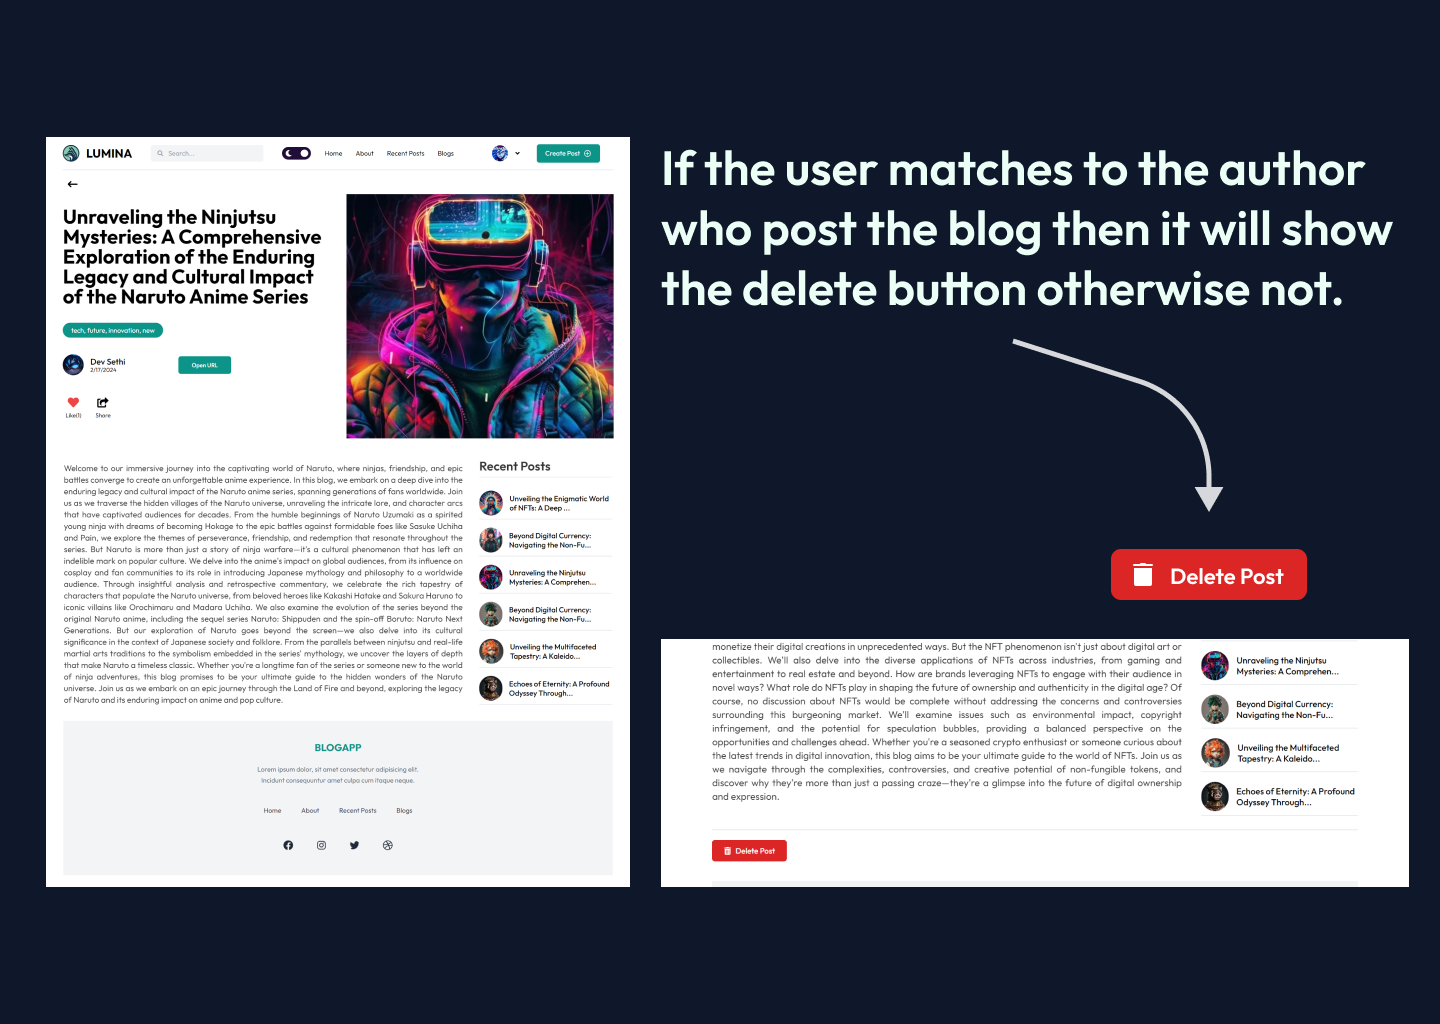
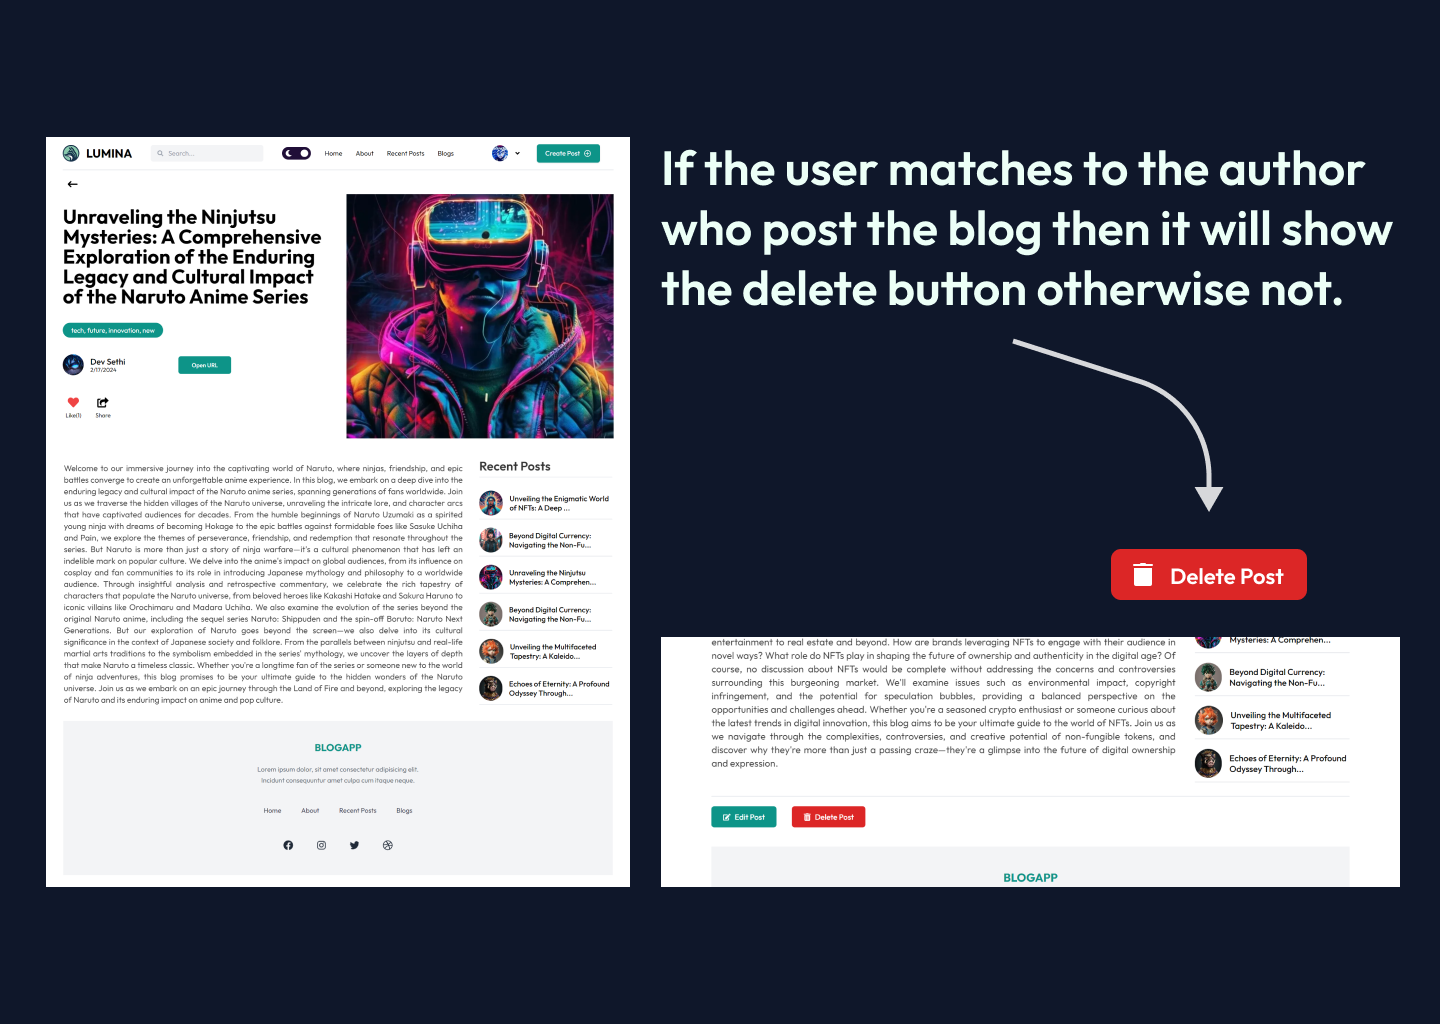
third commit

Changed region(s): [[0.4688, 0.625, 0.9375, 0.8438], [0.9688, 0.625, 1.0, 0.875], [0.6875, 0.8438, 0.7188, 0.875]]

diff --git a/src/app/edit-post/[postId]/page.jsx b/src/app/edit-post/[postId]/page.jsx
@@ -4,12 +4,12 @@ import { useRouter } from "next/navigation";
 import { useEffect, useState } from "react";
 import { useSession } from "next-auth/react";
 import { doc, getDoc, getFirestore, setDoc } from "firebase/firestore";
-import UploadImage from "@/app/components/uploadImage/UploadImage";
 import UserPinBuilderSkeleton from "@/app/components/loadingSkeletons/UserPinBuilderSkeleton";
 import UserTag from "@/app/components/userTag/UserTag";
 import Modal from "@/app/components/modal/Modal";
 import { app } from "../../../../firebaseConfig";
 import Image from "next/image";
+import { TbCloudUpload } from "react-icons/tb";
 
 const EditPostPage = ({ params }) => {
   console.log(params);
@@ -34,7 +34,7 @@ const EditPostPage = ({ params }) => {
   const [desc, setDesc] = useState();
   const [link, setLink] = useState();
   const [successMsg, setSuccessMsg] = useState(false);
-  const [selectedFile, setSelectedFile] = useState();
+  const [selectedFile, setSelectedFile] = useState(false);
 
   useEffect(() => {
     setPostId(params.postId);
@@ -75,16 +75,63 @@ const EditPostPage = ({ params }) => {
     setDesc(postDetail.desc);
   }, []);
 
-  const updateFile = () => {};
+  const updatePost = async () => {
+    try {
+      if (file) {
+        // Upload file to Firebase Storage
+        const storageRef = ref(storage, "posts/" + file.name);
+        const snapshot = await uploadBytes(storageRef, file);
 
+        // Get download URL
+        const downloadURL = await getDownloadURL(snapshot.ref);
+
+        // Update Firestore document with download URL
+        const postData = {
+          title: title,
+          desc: desc,
+          link: link,
+          image: downloadURL, // Update image field with download URL
+          category: tags.join(", "),
+          // Add other fields as needed
+        };
+
+        await setDoc(doc(db, "blog-post", postId), postData, { merge: true });
+        setLoading(false);
+        router.push("/" + session.user?.email);
+        setTimeout(() => {
+          setSuccessMsg(true);
+        }, 2000); // Adjust as needed
+      } else {
+        // If no file is selected, update Firestore document without changing the image field
+        const postData = {
+          title: title,
+          desc: desc,
+          link: link,
+          category: tags.join(", "),
+          // Add other fields as needed
+        };
+
+        await setDoc(doc(db, "blog-post", postId), postData, { merge: true });
+        setLoading(false);
+        router.push("/" + session.user?.email);
+        setTimeout(() => {
+          setSuccessMsg(true);
+        }, 2000); // Adjust as needed
+      }
+    } catch (error) {
+      console.error("Error updating post: ", error);
+      // Handle error
+    }
+  };
   const handleSave = () => {
     if (!title || !desc || !file || !link || tags.length === 0) {
       toggleModal();
       return;
     }
+
     setCategory(tags.join(", "));
     setLoading(true);
-    updateFile();
+    updatePost();
     toggleSuccess();
   };
 
@@ -97,6 +144,7 @@ const EditPostPage = ({ params }) => {
     setTags((prevTags) => [...prevTags, category.trim()]);
     setCategory("");
   };
+
   const toggleModal = () => {
     setFieldsError(!fieldsError);
   };
@@ -112,38 +160,16 @@ const EditPostPage = ({ params }) => {
             for="dropzone-file"
             className="flex flex-col items-center justify-center w-full h-[60vh] lg:h-[95vh] border-2 bg-[#f7fffe] hover:bg-[#ebfffd] transition-all dark:border-[#2c415f] dark:bg-[#1e2a41] dark:hover:bg-[#26354f] border-dashed rounded-lg cursor-pointer"
           >
-            {selectedFile ? (
-              <div className="flex flex-col items-center justify-center pt-5 pb-6">
-                <svg
-                  className="w-[80px] h-[80px] text-gray-500 dark:text-gray-400"
-                  aria-hidden="true"
-                  xmlns="http://www.w3.org/2000/svg"
-                  fill="none"
-                  viewBox="0 0 20 16"
-                >
-                  <path
-                    stroke="currentColor"
-                    stroke-linecap="round"
-                    stroke-linejoin="round"
-                    stroke-width="2"
-                    d="M13 13h3a3 3 0 0 0 0-6h-.025A5.56 5.56 0 0 0 16 6.5 5.5 5.5 0 0 0 5.207 5.021C5.137 5.017 5.071 5 5 5a4 4 0 0 0 0 8h2.167M10 15V6m0 0L8 8m2-2 2 2"
-                  />
-                </svg>
-                <p className="mb-2 text-xl text-gray-500 mt-4 dark:text-gray-400">
-                  <span className="font-semibold">Click to upload</span> or drag
-                  and drop
-                </p>
-                <p className="text-xs text-gray-500 dark:text-gray-400">
-                  SVG, PNG, JPG or GIF (MAX. 800x400px)
-                </p>
-              </div>
-            ) : null}
             <Image
-              src={postDetail?.image}
+              src={
+                selectedFile
+                  ? window.URL.createObjectURL(selectedFile)
+                  : postDetail?.image
+              }
               width={500}
               height={800}
               alt="selected-image"
-              className="object-contain p-2 w-full h-[90%]  "
+              className="object-contain p-2 w-full h-[90%]"
             />
             <input
               onChange={(e) => {
@@ -261,14 +287,14 @@ const EditPostPage = ({ params }) => {
       {successMsg && (
         <Modal
           toggleModal={toggleModal}
-          text="Blog Published Successfully"
+          text="Blog Updated Successfully"
           theme="success"
         />
       )}
       {fieldsError && (
         <Modal
           toggleModal={toggleModal}
-          text="Please fill all the fields before publishing!"
+          text="An error might possible for because you didn't save categories tags"
           theme="error"
         />
       )}

diff --git a/src/app/recent-posts/page.jsx b/src/app/recent-posts/page.jsx
@@ -26,6 +26,9 @@ const RecentPostPage = () => {
     return text;
   };
 
+  // Reverse the order of listOfPins to display newest posts at the top
+  const reversedListOfPins = [...listOfPins].reverse();
+
   return (
     <div className="mt-5">
       <h1 className="text-center text-3xl text-gray-700 dark:text-gray-200 border-b-[3px] border-teal-600 pb-2 my-8 font-semibold">
@@ -35,20 +38,28 @@ const RecentPostPage = () => {
         <table className="w-full">
           <thead>
             <tr className="border-2 border-gray-300 dark:border-[#253954]">
-              <th className="border-2 w-20 py-2 px-3 border-gray-300 dark:border-[#253954] dark:bg-[#253954] bg-gray-200 ">S.No.</th>
+              <th className="border-2 w-20 py-2 px-3 border-gray-300 dark:border-[#253954] dark:bg-[#253954] bg-gray-200 ">
+                S.No.
+              </th>
               <th className="border-2 w-[150px] py-2 px-3 border-gray-300 dark:border-[#253954] dark:bg-[#253954] bg-gray-200 ">
                 Blog Image
               </th>
-              <th className="border-2 w-[400px] py-2 px-3 border-gray-300 dark:border-[#253954] dark:bg-[#253954] bg-gray-200 ">Title</th>
-              <th className="border-2 w-[410px] py-2 px-3 border-gray-300 dark:border-[#253954] dark:bg-[#253954] bg-gray-200 ">Desc</th>
-              <th className="border-2 py-2 px-3 border-gray-300 dark:border-[#253954] dark:bg-[#253954] bg-gray-200 ">Post By</th>
+              <th className="border-2 w-[400px] py-2 px-3 border-gray-300 dark:border-[#253954] dark:bg-[#253954] bg-gray-200 ">
+                Title
+              </th>
+              <th className="border-2 w-[410px] py-2 px-3 border-gray-300 dark:border-[#253954] dark:bg-[#253954] bg-gray-200 ">
+                Desc
+              </th>
+              <th className="border-2 py-2 px-3 border-gray-300 dark:border-[#253954] dark:bg-[#253954] bg-gray-200 ">
+                Post By
+              </th>
               <th className="border-2 py-2 px-3 w-[150px] border-gray-300 dark:border-[#253954] dark:bg-[#253954] bg-gray-200 ">
                 Created Date
               </th>
             </tr>
           </thead>
           <tbody>
-            {listOfPins.map((pin, index) => (
+            {reversedListOfPins.map((pin, index) => (
               <tr
                 key={index}
                 className="cursor-pointer my-3"

diff --git a/src/app/components/searchBar/SearchBar.jsx b/src/app/components/searchBar/SearchBar.jsx
@@ -1,3 +1,4 @@
+"use client";
 import { useState, useEffect } from "react";
 import { FaSearch } from "react-icons/fa";
 import { motion } from "framer-motion";
@@ -31,7 +32,7 @@ const SearchData = ({ searchQuery }) => {
 
   const showPinTitle = (title) => {
     if (screenWidth <= 680) {
-      return truncateDescription(title, 35);
+      return truncateDescription(title, 45);
     } else {
       return title;
     }
@@ -44,23 +45,22 @@ const SearchData = ({ searchQuery }) => {
           No matching blog found.
         </div>
       ) : (
-        <div className="flex flex-col gap-5 cursor-pointer">
+        <div className="flex py-3 flex-col gap-5 cursor-pointer">
           {filteredPins.map((pin, index) => (
             <div
               onClick={() => router.push(`/post/${pin.id}`)}
               key={index}
-              className="flex border-b-2 py-2 -mt-2 dark:border-[#27385c] items-center gap-4"
+              className="flex border-b-[2px] border-gray-200 py-2 -mt-5 dark:border-[#27385c] items-center gap-6"
             >
-              <div className="relative w-[60px] h-[55px] rounded-full">
+              <div className="relative lg:w-[90px] w-[100px] box-shadow: rgba(13, 38, 76, 0.19) 0px 9px 20px; lg:h-[85px] h-[65px] rounded-full">
                 <Image
                   src={pin?.image}
                   fill
                   alt={pin?.title}
-                  className="rounded-full"
                   objectFit="cover"
                 />
               </div>
-              <h4 className="text-normal lg:text-xl leading-tight font-medium">
+              <h4 className="text-normal lg:text-xl text-gray-800 leading-tight font-medium">
                 {showPinTitle(pin.title)}
               </h4>
             </div>

diff --git a/src/app/components/uploadImage/UploadImage.jsx b/src/app/components/uploadImage/UploadImage.jsx
@@ -1,6 +1,7 @@
 "use client";
 import { useState } from "react";
 import Image from "next/image";
+import { TbCloudUpload } from "react-icons/tb";
 
 const UploadImage = ({ setFile }) => {
   const [selectedFile, setSelectedFile] = useState();
@@ -13,21 +14,7 @@ const UploadImage = ({ setFile }) => {
         >
           {!selectedFile ? (
             <div className="flex flex-col items-center justify-center pt-5 pb-6">
-              <svg
-                className="w-[80px] h-[80px] text-gray-500 dark:text-gray-400"
-                aria-hidden="true"
-                xmlns="http://www.w3.org/2000/svg"
-                fill="none"
-                viewBox="0 0 20 16"
-              >
-                <path
-                  stroke="currentColor"
-                  stroke-linecap="round"
-                  stroke-linejoin="round"
-                  stroke-width="2"
-                  d="M13 13h3a3 3 0 0 0 0-6h-.025A5.56 5.56 0 0 0 16 6.5 5.5 5.5 0 0 0 5.207 5.021C5.137 5.017 5.071 5 5 5a4 4 0 0 0 0 8h2.167M10 15V6m0 0L8 8m2-2 2 2"
-                />
-              </svg>
+              <TbCloudUpload className="text-8xl text-gray-600" />
               <p className="mb-2 text-xl text-gray-500 mt-4 dark:text-gray-400">
                 <span className="font-semibold">Click to upload</span> or drag
                 and drop

diff --git a/src/app/components/footer/Footer.jsx b/src/app/components/footer/Footer.jsx
@@ -19,7 +19,7 @@ const Footer = () => {
             <li>
               <Link
                 className="text-gray-700 transition hover:text-gray-700/75 dark:text-white dark:hover:text-white/75"
-                href="/blogs"
+                href="/"
               >
                 Home
               </Link>
@@ -28,7 +28,7 @@ const Footer = () => {
             <li>
               <Link
                 className="text-gray-700 transition hover:text-gray-700/75 dark:text-white dark:hover:text-white/75"
-                href="/blogs"
+                href="/about"
               >
                 About
               </Link>
@@ -37,7 +37,7 @@ const Footer = () => {
             <li>
               <Link
                 className="text-gray-700 transition hover:text-gray-700/75 dark:text-white dark:hover:text-white/75"
-                href="/blogs"
+                href="/recent-posts"
               >
                 Recent Posts
               </Link>

diff --git a/src/app/components/userTag/UserTag.jsx b/src/app/components/userTag/UserTag.jsx
@@ -15,9 +15,9 @@ const UserTag = () => {
           alt="user"
         />
         <div className="flex flex-col">
-          <p className="opacity-70 font-medium">{session.user.name}</p>
+          <p className="opacity-70 font-medium">{session?.user.name}</p>
           <span className="text-sm text-gray-600 mt-[-3px]">
-            {session.user.email}
+            {session?.user.email}
           </span>
         </div>
       </div>

diff --git a/README.md b/README.md
@@ -20,6 +20,14 @@ Welcome to the Blog App repository! This project is a Next.js-based web applicat
 
 ![Blog App - Delete Post](preview_delete_post.png)
 
+### 4. Edit Post
+
+![Blog App - Edit Post](preview_edit_post.png)
+
+### 4. Search Filter
+
+![Blog App - Search Post](preview_search_filter.png)
+
 ### 5. Authentication
 
 ![Blog App - Authentication](preview_authentication.png)
